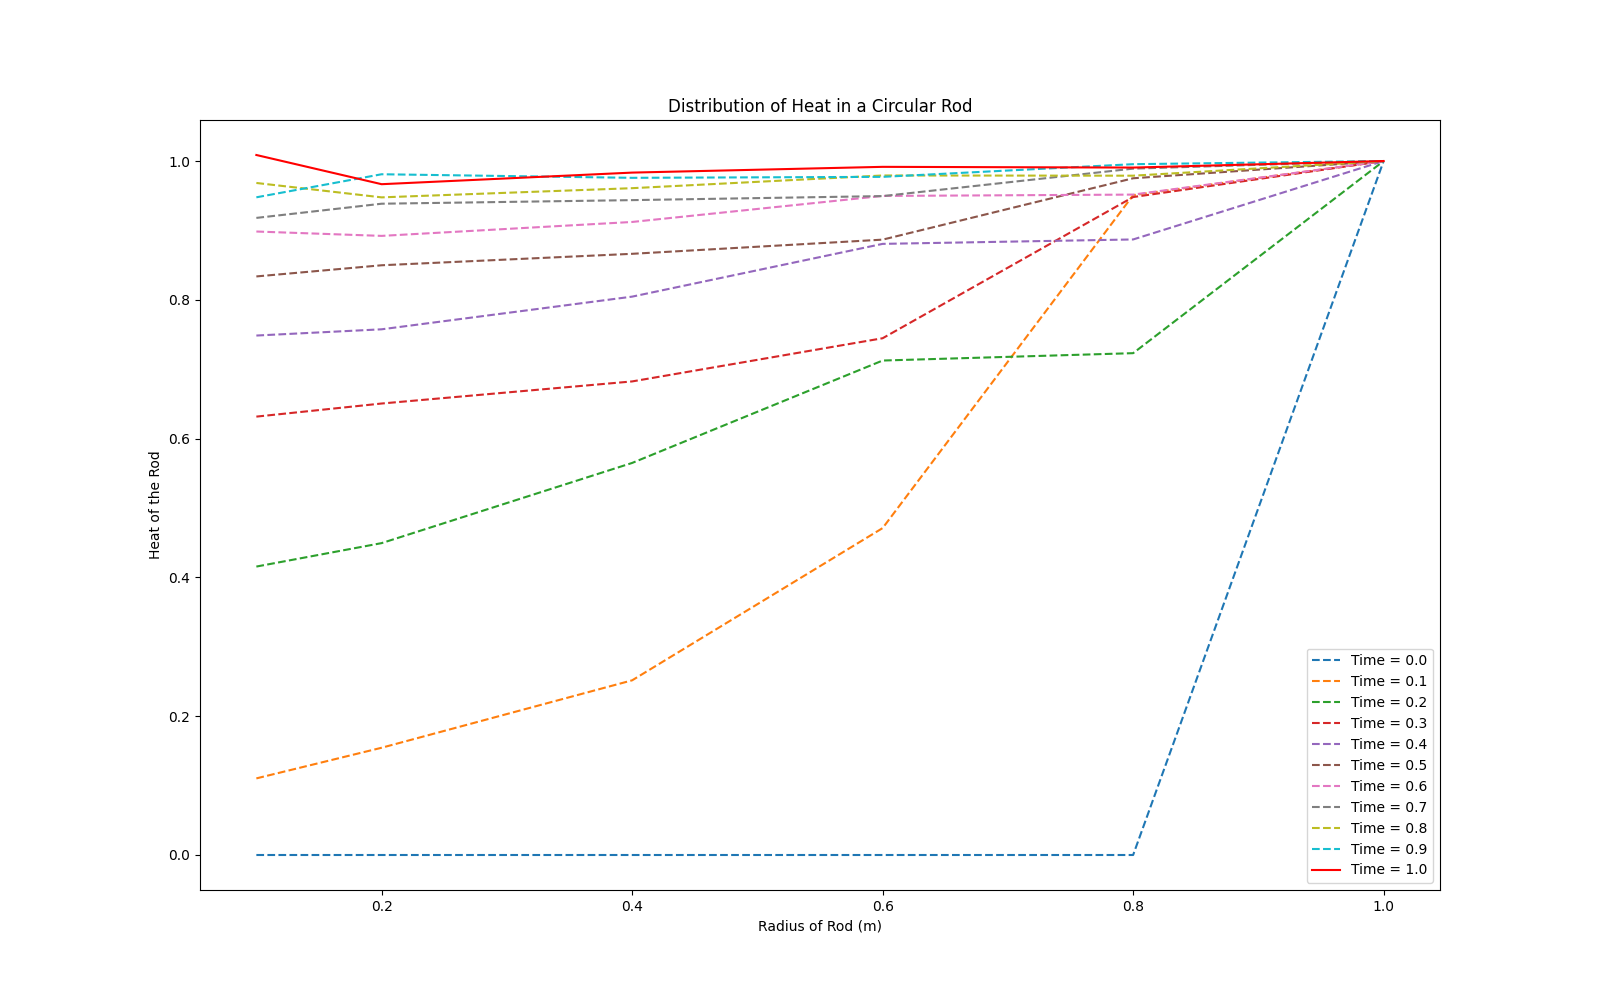
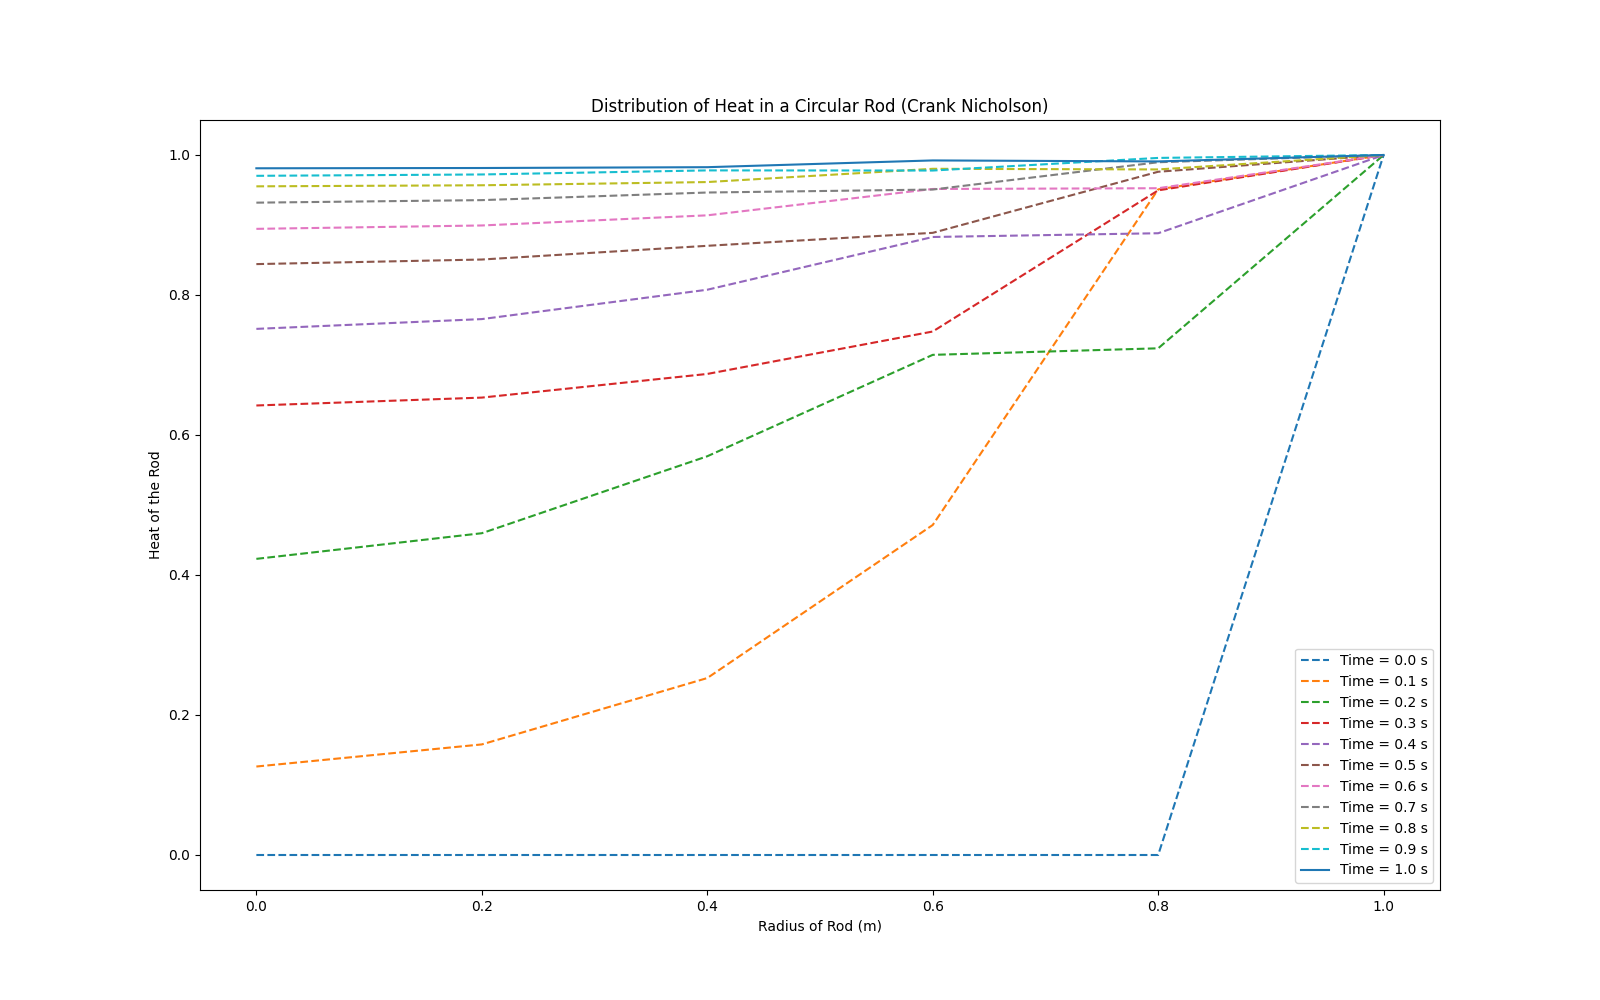
Finished Last Assignment

diff --git a/Assignments/Assignment 4/FiniteElementAnalysis.py b/Assignments/Assignment 4/FiniteElementAnalysis.py
@@ -1,0 +1,57 @@
+# Imports
+import numpy as np
+from scipy.integrate import solve_bvp, solve_ivp
+from scipy.optimize import fsolve
+import matplotlib.pyplot as plt
+
+#
+# Alexandre Dufresne-Nappert
+# 20948586
+#
+
+TReal = lambda x: -(15/2)*x**2 + 82.5*x + 75
+
+# Number of internal Nodes
+n = 3
+
+# Define the Start and End Temperature
+TEnd = 150
+TInit = 75
+
+# Define X
+xInit = 0
+xEnd = 10
+xVals = np.linspace(xInit, xEnd, n + 2)
+
+# Create the A Matrix
+A = np.diag(np.ones(n) * 0.8) + np.diag(np.ones(n-1) * -0.4, 1) +  np.diag(np.ones(n-1) * -0.4, -1)
+
+# Create the b Vector
+b = np.ones(n) * 37.5
+
+# Apply Boundary Conditions
+b[0] += TInit*0.4
+b[-1] += TEnd*0.4
+
+# Solve the System of Equations
+sol = np.linalg.solve(A, b)
+
+# Add the Initial and End Value to the Array
+fullSolution = np.hstack([TInit, sol, TEnd])
+
+# Display the Solution
+print("\n\nT Distribution = ", fullSolution)
+
+# Define More detailed points for Real Solution
+xVals2 = np.linspace(xInit, xEnd, 1000)
+
+# Plot the Comparison
+plt.figure(figsize=(16, 10))
+plt.title("Comparison of Analytical Solution and Finite Element Analysis Solution")
+plt.xlabel("Distance (m)")
+plt.ylabel("Temperature (Celsius)")
+plt.plot(xVals2, TReal(xVals2), label="Real Solution")
+plt.plot(xVals, fullSolution, label="Finite Element")
+plt.legend()
+plt.savefig("FiniteElementAnalysis.png")
+plt.show()

diff --git a/Assignments/Assignment 4/CranckNicholson.py b/Assignments/Assignment 4/CranckNicholson.py
@@ -44,10 +44,9 @@ U[:, -1] = URight
 # Build the A Matrix
 #
 
-rVals[0] - 0.001
-
 # Define D as a Vector for U_i+1 and  Apply the Derivative Boundary Conidition
-D = np.ones(n - 1) * -lam*(1 + dr/(2*rVals[:-2]))
+D = np.ones(n - 1) 
+D[1:] *= -lam*(1 + dr/(2*rVals[1:-2]))
 D[0] = -2*lam
 
 # Define E as Vector for U_i-1
@@ -91,7 +90,7 @@ for l in range(tNodes - 1):
     
 
 # Plot All other Graphs between Second and Second Last 
-for i in range(len(U)-1):
+for i in range(0, tNodes-1, 1):
     plt.plot(rVals, U[i, :], "--", label=f"Time = {tVals[i]:.1f} s")
     
 # Plot the Last Graph with a Unique Identifier

diff --git a/Assignments/Assignment 4/MethodOfLines.py b/Assignments/Assignment 4/MethodOfLines.py
@@ -66,7 +66,7 @@ solution = solve_ivp(dUdt, (tInit, tEnd),UInit, t_eval=tVals)
 sol = np.vstack([solution.y, np.ones(tNodes) * URight])
 
 # Create a single figure
-plt.figure()
+plt.figure(figsize=(16, 10))
 
 # Plot every 10th Instance
 for i in range(0, tNodes-10, 10):
